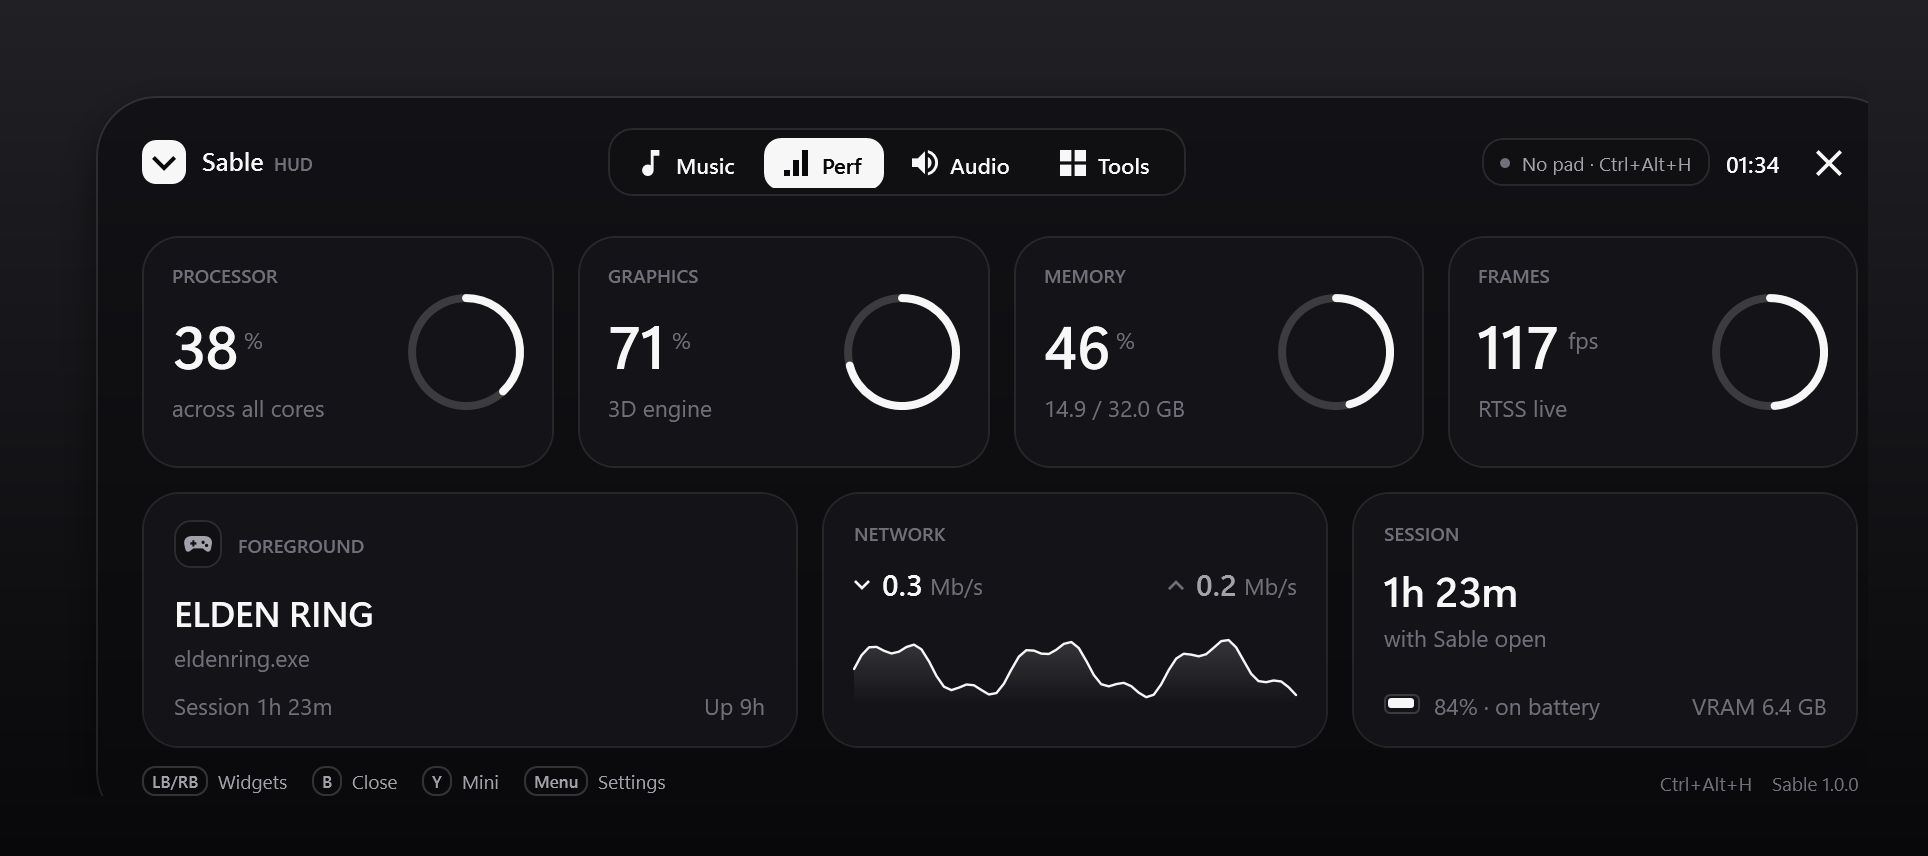
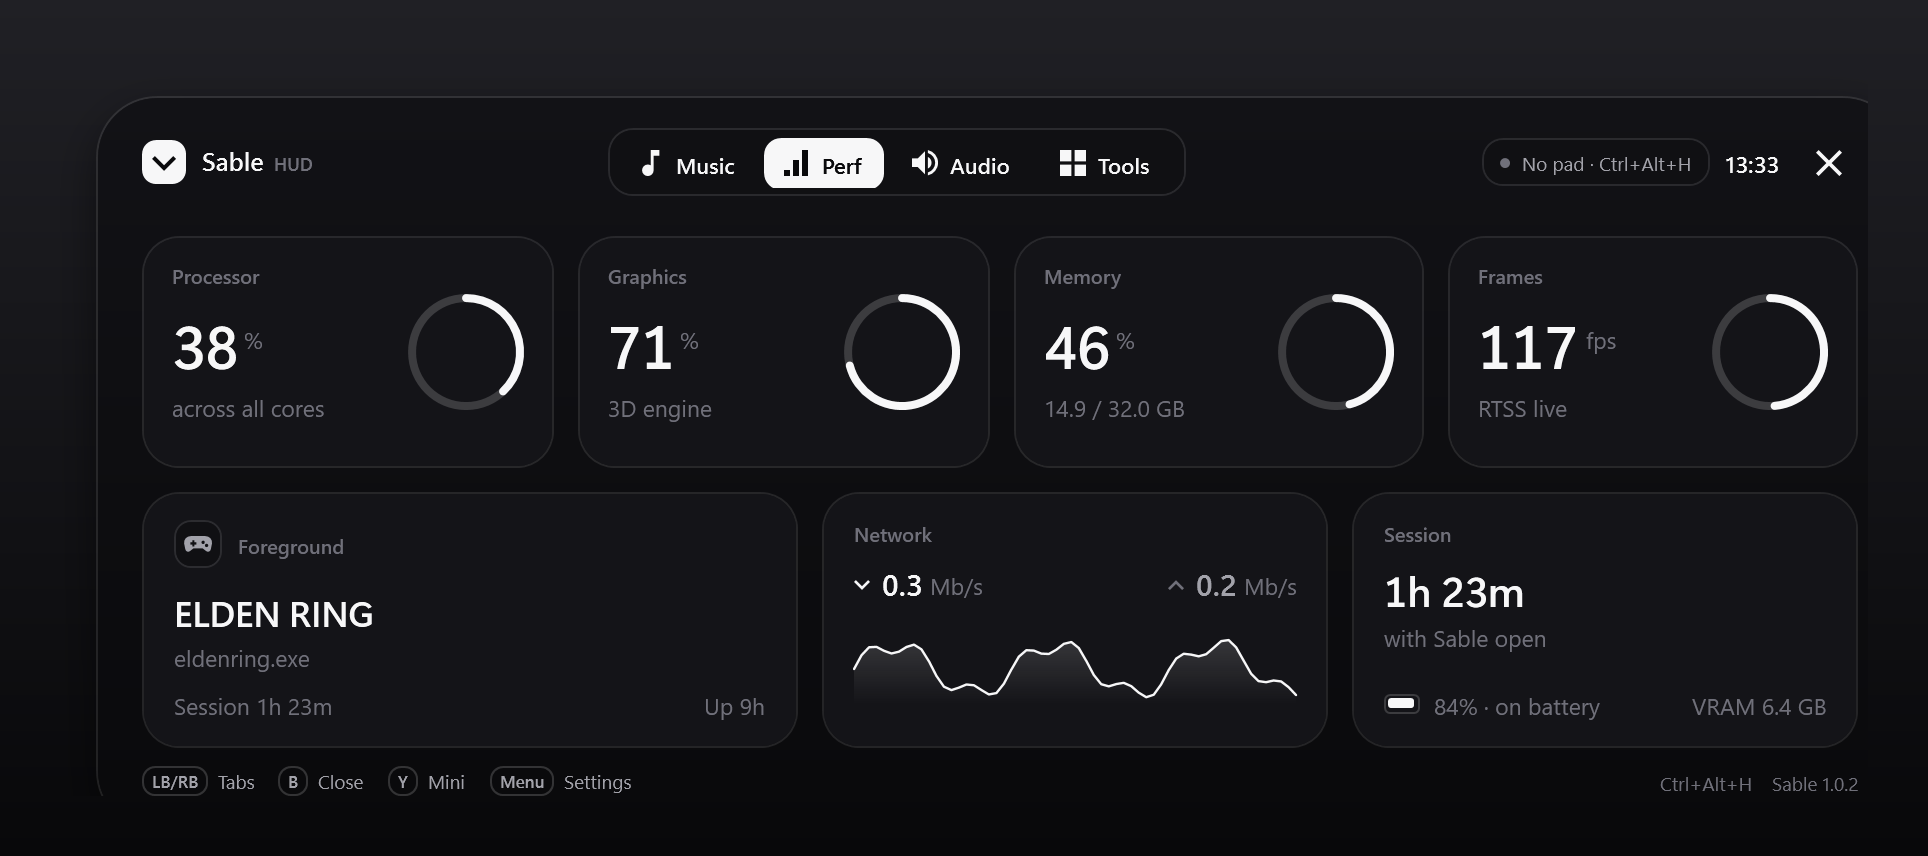
Polish micro labels and clarify controller isolation

diff --git a/src/SableHUD/Widgets/PerformanceView.xaml b/src/SableHUD/Widgets/PerformanceView.xaml
@@ -29,7 +29,7 @@
             <Border Style="{StaticResource Card}" Padding="14,12">
                 <Grid>
                     <StackPanel>
-                        <TextBlock Text="PROCESSOR" Style="{StaticResource Micro}" />
+                        <TextBlock Text="Processor" Style="{StaticResource Micro}" />
                         <StackPanel Orientation="Horizontal" Margin="0,8,0,0">
                             <TextBlock x:Name="CpuValue" Style="{StaticResource StatValue}" FontSize="30" Text="—" />
                             <TextBlock Text="%" Style="{StaticResource Dim}" Margin="3,10,0,0" />
@@ -46,7 +46,7 @@
             <Border Grid.Column="2" Style="{StaticResource Card}" Padding="14,12">
                 <Grid>
                     <StackPanel>
-                        <TextBlock Text="GRAPHICS" Style="{StaticResource Micro}" />
+                        <TextBlock Text="Graphics" Style="{StaticResource Micro}" />
                         <StackPanel Orientation="Horizontal" Margin="0,8,0,0">
                             <TextBlock x:Name="GpuValue" Style="{StaticResource StatValue}" FontSize="30" Text="—" />
                             <TextBlock Text="%" Style="{StaticResource Dim}" Margin="3,10,0,0" />
@@ -63,7 +63,7 @@
             <Border Grid.Column="4" Style="{StaticResource Card}" Padding="14,12">
                 <Grid>
                     <StackPanel>
-                        <TextBlock Text="MEMORY" Style="{StaticResource Micro}" />
+                        <TextBlock Text="Memory" Style="{StaticResource Micro}" />
                         <StackPanel Orientation="Horizontal" Margin="0,8,0,0">
                             <TextBlock x:Name="RamValue" Style="{StaticResource StatValue}" FontSize="30" Text="—" />
                             <TextBlock Text="%" Style="{StaticResource Dim}" Margin="3,10,0,0" />
@@ -80,7 +80,7 @@
             <Border Grid.Column="6" Style="{StaticResource Card}" Padding="14,12">
                 <Grid>
                     <StackPanel>
-                        <TextBlock Text="FRAMES" Style="{StaticResource Micro}" />
+                        <TextBlock Text="Frames" Style="{StaticResource Micro}" />
                         <StackPanel Orientation="Horizontal" Margin="0,8,0,0">
                             <TextBlock x:Name="FpsValue" Style="{StaticResource StatValue}" FontSize="30" Text="—" />
                             <TextBlock Text="fps" Style="{StaticResource Dim}" Margin="4,10,0,0" />
@@ -116,7 +116,7 @@
                         <Border Width="24" Height="24" CornerRadius="8" Background="{DynamicResource BgSoft}" BorderBrush="{DynamicResource Stroke}" BorderThickness="1">
                             <Path Data="{StaticResource IconGamepad}" Fill="{DynamicResource TextMuted}" Width="14" Height="14" Stretch="Uniform" HorizontalAlignment="Center" VerticalAlignment="Center" />
                         </Border>
-                        <TextBlock Text="FOREGROUND" Style="{StaticResource Micro}" Margin="8,0,0,0" VerticalAlignment="Center" />
+                        <TextBlock Text="Foreground" Style="{StaticResource Micro}" Margin="8,0,0,0" VerticalAlignment="Center" />
                     </StackPanel>
 
                     <StackPanel Grid.Row="1" VerticalAlignment="Center">
@@ -138,7 +138,7 @@
                         <RowDefinition Height="Auto" />
                         <RowDefinition Height="*" />
                     </Grid.RowDefinitions>
-                    <TextBlock Text="NETWORK" Style="{StaticResource Micro}" />
+                    <TextBlock Text="Network" Style="{StaticResource Micro}" />
                     <Grid Grid.Row="1" Margin="0,9,0,0">
                         <StackPanel Orientation="Horizontal">
                             <Path Data="{StaticResource IconChevronDown}" Fill="{DynamicResource Text}" Width="8" Height="8" Stretch="Uniform" VerticalAlignment="Center" />
@@ -169,7 +169,7 @@
                         <RowDefinition Height="Auto" />
                         <RowDefinition Height="*" />
                     </Grid.RowDefinitions>
-                    <TextBlock Text="SESSION" Style="{StaticResource Micro}" />
+                    <TextBlock Text="Session" Style="{StaticResource Micro}" />
                     <StackPanel Grid.Row="1" Margin="0,8,0,0">
                         <TextBlock x:Name="BigSession" Style="{StaticResource StatValue}" FontSize="21" Text="0m" />
                         <TextBlock Text="with Sable open" Style="{StaticResource Dim}" Margin="0,2,0,0" />

diff --git a/src/SableHUD/Widgets/AudioView.xaml b/src/SableHUD/Widgets/AudioView.xaml
@@ -27,7 +27,7 @@
                 </Grid.ColumnDefinitions>
 
                 <StackPanel VerticalAlignment="Center">
-                    <TextBlock Text="SYSTEM VOLUME" Style="{StaticResource Micro}" />
+                    <TextBlock Text="System volume" Style="{StaticResource Micro}" />
                     <StackPanel Orientation="Horizontal" Margin="0,4,0,0">
                         <TextBlock x:Name="MasterValue" Style="{StaticResource StatValue}" FontSize="26" Text="—" />
                         <TextBlock Text="%" Style="{StaticResource Dim}" Margin="3,9,0,0" />
@@ -39,7 +39,7 @@
                     <controls:HudProgress x:Name="MasterBar" Height="6"
                                           Track="{DynamicResource StrokeStrong}"
                                           Fill="{DynamicResource Text}" />
-                    <TextBlock x:Name="MasterHint" Text="click to mute · ◀ ▶ volume" Style="{StaticResource Dim}" Margin="0,7,0,0" FontSize="9.8" TextTrimming="CharacterEllipsis" />
+                    <TextBlock x:Name="MasterHint" Text="Click to mute · ◀ ▶ volume" Style="{StaticResource Dim}" Margin="0,7,0,0" FontSize="9.8" TextTrimming="CharacterEllipsis" />
                 </StackPanel>
 
                 <Path x:Name="MasterIcon" Grid.Column="2"
@@ -51,7 +51,7 @@
         </controls:HudButton>
 
         <Grid Grid.Row="2">
-            <TextBlock Text="APP MIXER" Style="{StaticResource Micro}" VerticalAlignment="Center" />
+            <TextBlock Text="App mixer" Style="{StaticResource Micro}" VerticalAlignment="Center" />
             <StackPanel Orientation="Horizontal" HorizontalAlignment="Right">
                 <controls:HudButton x:Name="OutputButton"
                                     Height="34" CornerRadius="11" Padding="11,0" Margin="0,0,6,0"
@@ -73,7 +73,7 @@
                 <StackPanel x:Name="SessionRows" />
                 <TextBlock x:Name="NoSessions"
                            Style="{StaticResource Body}"
-                           Text="No apps are playing audio right now."
+                           Text="No apps are playing audio"
                            VerticalAlignment="Center"
                            HorizontalAlignment="Center"
                            FontSize="12" />

diff --git a/src/SableHUD/Widgets/MusicView.xaml b/src/SableHUD/Widgets/MusicView.xaml
@@ -65,7 +65,7 @@
                             VerticalAlignment="Center">
                         <StackPanel Orientation="Horizontal" VerticalAlignment="Center">
                             <Ellipse x:Name="SourceDot" Width="5" Height="5" Fill="{DynamicResource Text}" VerticalAlignment="Center" />
-                            <TextBlock x:Name="SourceText" Style="{StaticResource Micro}" Margin="7,1,0,0" Text="MEDIA" />
+                            <TextBlock x:Name="SourceText" Style="{StaticResource Micro}" Margin="7,1,0,0" Text="Media" />
                         </StackPanel>
                     </Border>
                     <TextBlock x:Name="StateText" Style="{StaticResource Dim}" Margin="10,0,0,0" VerticalAlignment="Center" Text="Idle" />
@@ -130,11 +130,11 @@
                         <RowDefinition Height="Auto" />
                     </Grid.RowDefinitions>
 
-                    <TextBlock Text="SOURCE" Style="{StaticResource Micro}" />
+                    <TextBlock Text="Source" Style="{StaticResource Micro}" />
                     <TextBlock x:Name="SideSource" Grid.Row="1" Style="{StaticResource Heading}" FontSize="17" Margin="0,5,0,0" Text="—" />
                     <Border Grid.Row="2" Style="{StaticResource Divider}" Margin="0,12,0,0" />
                     <StackPanel Grid.Row="3" Margin="0,12,0,0">
-                        <TextBlock x:Name="SideLabel" Text="NEXT UP" Style="{StaticResource Micro}" />
+                        <TextBlock x:Name="SideLabel" Text="Next up" Style="{StaticResource Micro}" />
                         <TextBlock x:Name="SideDetail" Style="{StaticResource Body}" FontSize="12" Margin="0,5,0,0" Text="Start a track to see more." TextWrapping="Wrap" />
                     </StackPanel>
 

diff --git a/src/SableHUD/Windows/ToastWindow.xaml b/src/SableHUD/Windows/ToastWindow.xaml
@@ -54,8 +54,8 @@
 
                 <StackPanel Grid.Column="2" VerticalAlignment="Center">
                     <StackPanel Orientation="Horizontal">
-                        <TextBlock x:Name="ToastLabel" Text="NOW PLAYING" Style="{StaticResource Micro}" FontSize="8.5" VerticalAlignment="Center" />
-                        <TextBlock x:Name="ToastSource" Text="LIMUSIC" Style="{StaticResource Micro}" FontSize="8.5" Foreground="{DynamicResource TextMuted}" Margin="7,0,0,0" VerticalAlignment="Center" />
+                        <TextBlock x:Name="ToastLabel" Text="Now playing" Style="{StaticResource Micro}" FontSize="8.5" VerticalAlignment="Center" />
+                        <TextBlock x:Name="ToastSource" Text="LiMusic" Style="{StaticResource Micro}" FontSize="8.5" Foreground="{DynamicResource TextMuted}" Margin="7,0,0,0" VerticalAlignment="Center" />
                     </StackPanel>
                     <TextBlock x:Name="ToastTitle" Text="Track" FontSize="12.5" FontWeight="SemiBold" Margin="0,3,0,0" TextTrimming="CharacterEllipsis" />
                     <TextBlock x:Name="ToastArtist" Text="Artist" FontSize="9.8" Foreground="{DynamicResource TextDim}" Margin="0,1,0,0" TextTrimming="CharacterEllipsis" />

diff --git a/src/SableHUD/Themes/Base.xaml b/src/SableHUD/Themes/Base.xaml
@@ -73,8 +73,8 @@
     </Style>
 
     <Style x:Key="Micro" TargetType="TextBlock">
-        <Setter Property="FontSize" Value="9.5" />
-        <Setter Property="FontWeight" Value="SemiBold" />
+        <Setter Property="FontSize" Value="10" />
+        <Setter Property="FontWeight" Value="Medium" />
         <Setter Property="Foreground" Value="{DynamicResource TextDim}" />
         <Setter Property="TextOptions.TextFormattingMode" Value="Ideal" />
     </Style>
@@ -84,6 +84,7 @@
         <Setter Property="FontSize" Value="22" />
         <Setter Property="FontWeight" Value="SemiBold" />
         <Setter Property="Foreground" Value="{DynamicResource Text}" />
+        <Setter Property="Typography.NumeralAlignment" Value="Tabular" />
     </Style>
 
     <!-- ============================ surfaces ============================ -->

diff --git a/src/SableHUD/Windows/SettingsWindow.xaml.cs b/src/SableHUD/Windows/SettingsWindow.xaml.cs
@@ -459,7 +459,7 @@ public partial class SettingsWindow : Window
             });
 
         AddRow("Isolate pad while HUD is open",
-            "Uses HidHide to hide the controller from games while the overlay is up, so HUD navigation does not leak into gameplay. Sable is allowlisted.",
+            "Hides the controller from games while the overlay is up. Apps opened after the HUD is up are isolated; an app that already opened the controller keeps it until it restarts or reloads. Sable is allowlisted.",
             Services.Settings.IsolateController ? "On" : "Off",
             () => _ = ToggleIsolationAsync(),
             toggle: Services.Settings.IsolateController);
@@ -492,7 +492,7 @@ public partial class SettingsWindow : Window
 
             Services.Settings.IsolateController = true;
             Services.Save();
-            Hud.Toast(message);
+            Hud.Toast(message + " · Reload apps that were already open");
         }
         else
         {
@@ -670,7 +670,7 @@ public partial class SettingsWindow : Window
             "Music is built around LiMusic. LiMusic publishes its now-playing state to Windows (SMTC), so Sable can show artwork, seek, and play or skip without embedding the whole Tauri app. The music widget is a stripped-down, controller-sized take on that player; LiMusic itself still owns search, library and streaming.",
             "You can also point Sable at a folder of your own music. MP3, FLAC, M4A and WAV are read through Media Foundation and tagged with TagLib.",
             "FPS comes from RivaTuner Statistics Server's shared memory when RTSS is running. Sable never injects into a game.",
-            "Windows broadcasts controller input to every app. While the HUD is open, the game may still see D-pad and face-button presses. Borderless fullscreen keeps the overlay visible; a HidHide profile can isolate the pad if a particular game reacts.",
+            "Windows broadcasts controller input to every app. HidHide can hide the pad while the HUD is open, but an app that already opened the controller keeps it until it restarts or reloads. Borderless fullscreen keeps the overlay visible.",
         };
 
         foreach (var text in paragraphs)

diff --git a/src/SableHUD/Widgets/MusicView.xaml.cs b/src/SableHUD/Widgets/MusicView.xaml.cs
@@ -164,7 +164,7 @@ public partial class MusicView : HudPageBase
         var snap = Services.Demo ? Services.DemoMedia ?? MediaSnapshot.Empty : Services.Media.Current;
         var has = snap.HasTrack;
 
-        SourceText.Text = (snap.Kind == MediaKind.None ? "MEDIA" : snap.Source).ToUpperInvariant();
+        SourceText.Text = (snap.Kind == MediaKind.None ? "Media" : snap.Source);
         SourceDot.Opacity = snap.IsPlaying ? 1 : 0.3;
         StateText.Text = snap.Kind == MediaKind.None ? "Idle" : snap.IsPlaying ? "Playing" : "Paused";
 
@@ -191,21 +191,21 @@ public partial class MusicView : HudPageBase
         SideSource.Text = snap.Kind == MediaKind.None ? "Nothing yet" : snap.Source;
         if (snap.Kind == MediaKind.Local)
         {
-            SideLabel.Text = "NEXT UP";
+            SideLabel.Text = "Next up";
             var lib = Services.Media.Local.Library;
             var next = lib.Count > 1 ? lib[(Services.Media.Local.CurrentIndex + 1) % lib.Count] : null;
             SideDetail.Text = next is null ? "The library is quiet." : $"{next.Title}\n{next.Artist}";
         }
         else if (snap.Kind == MediaKind.System)
         {
-            SideLabel.Text = "ALBUM";
+            SideLabel.Text = "Album";
             SideDetail.Text = string.IsNullOrWhiteSpace(snap.Album)
                 ? $"{snap.Source} is playing outside the overlay."
                 : snap.Album;
         }
         else
         {
-            SideLabel.Text = "GET STARTED";
+            SideLabel.Text = "Get started";
             SideDetail.Text = "Play something in LiMusic, or point the HUD at a folder of your own music.";
         }
 

diff --git a/src/SableHUD/App.xaml.cs b/src/SableHUD/App.xaml.cs
@@ -21,6 +21,7 @@ public partial class App : Application
     private volatile bool _listening;
 
     private readonly System.Threading.SemaphoreSlim _isolationGate = new(1, 1);
+    private bool _isolationHintShown;
     private OverlayWindow? _overlay;
     private MiniPlayerWindow? _mini;
     private ToastWindow? _toast;
@@ -404,7 +405,14 @@ public partial class App : Application
             }
 
             if (_overlay?.IsShown == true)
+            {
                 await HidHide.SetCloakAsync(true).ConfigureAwait(true);
+                if (!_isolationHintShown)
+                {
+                    _isolationHintShown = true;
+                    Hud.Toast("Pad hidden · reload apps that were already open");
+                }
+            }
         }
         catch (Exception ex)
         {

diff --git a/src/SableHUD/Windows/ToastWindow.xaml.cs b/src/SableHUD/Windows/ToastWindow.xaml.cs
@@ -29,8 +29,8 @@ public partial class ToastWindow : Window
     {
         if (!snap.HasTrack) return;
 
-        ToastLabel.Text = "NOW PLAYING";
-        ToastSource.Text = snap.Source.ToUpperInvariant();
+        ToastLabel.Text = "Now playing";
+        ToastSource.Text = snap.Source;
         ToastTitle.Text = snap.Title;
         ToastArtist.Text = string.IsNullOrWhiteSpace(snap.Artist) ? snap.Album : snap.Artist;
         ToastProgress.Value = snap.Progress;
@@ -42,7 +42,7 @@ public partial class ToastWindow : Window
 
     public void ShowMessage(string text)
     {
-        ToastLabel.Text = "SABLE";
+        ToastLabel.Text = "Sable";
         ToastSource.Text = "";
         ToastTitle.Text = text;
         ToastArtist.Text = "";

diff --git a/src/SableHUD/Widgets/AudioView.xaml.cs b/src/SableHUD/Widgets/AudioView.xaml.cs
@@ -111,7 +111,7 @@ public partial class AudioView : HudPageBase
         MasterValue.Text = $"{s.Master * 100:0}";
         MasterBar.Value = s.Master;
         MasterState.Text = s.MasterMuted ? "muted" : "live";
-        MasterHint.Text = "click to mute · ◀ ▶ volume · " + s.DefaultDeviceName;
+        MasterHint.Text = "Click to mute · ◀ ▶ volume · " + s.DefaultDeviceName;
         MasterHint.ToolTip = s.DefaultDeviceName;
         MasterIcon.Data = Ui.Geo(s.MasterMuted ? "IconVolumeMute" : "IconVolume");
         MicButton.Content = s.MicAvailable ? (s.MicMuted ? "Mic muted" : "Mic live") : "No mic";

diff --git a/docs/TECHNICAL.md b/docs/TECHNICAL.md
@@ -166,14 +166,25 @@ Logs: `%APPDATA%\SableHUD\sable.log`. Settings are never written to the program 
 the installer and, after a reboot, prepare the configuration:
 
 1. `HidHideCLI --app-reg <SableHUD.exe>` allowlists the HUD
-2. `--dev-gaming` returns gaming HID devices; their `deviceInstancePath` and
-   `xusbDeviceInstancePath` are added with `--dev-hide`
-3. `--inv-off` and `--cloak-off`
+2. `--dev-gaming` returns gaming HID groups; the present `gamingDevice` entries are
+   collected from each group's `devices` array with `--dev-hide`
+3. HID gamepads also expose an XUSB (XnaComposite) interface that `--dev-gaming`
+   does not list. Sable finds it in
+   `HKLM\SYSTEM\CurrentControlSet\Enum\USB` by vendor/product and `Service=xusb*`,
+   and hides that instance too, otherwise XInput games still see the pad
+4. `--inv-off` and `--cloak-off`
 
-When the HUD is shown, `--cloak-on` hides those devices from every process except
-Sable; when it hides, `--cloak-off` restores them. Startup and normal exit always
-uncloak. A crash can leave cloaking on until Sable is run again or
-`HidHideCLI --cloak-off` is called.
+The device list is rebuilt every time the HUD opens, so a pad connected after the
+setting was enabled is picked up. When the HUD is shown, `--cloak-on` hides those
+devices from every process except Sable; when it hides, `--cloak-off` restores them.
+Startup and normal exit always uncloak. A crash can leave cloaking on until Sable is
+run again or `HidHideCLI --cloak-off` is called.
+
+HidHide filters **new device opens**, not handles that already exist. An app or
+browser page that opened the controller before the HUD keeps receiving input until
+it restarts or reloads; apps that open the pad after the HUD is up are isolated.
+This is why a game should be launched with the HUD already open, and why reloading a
+browser gamepad tester is enough to see the pad disappear.
 
 ## Animations
 

diff --git a/README.md b/README.md
@@ -84,7 +84,9 @@ Screenshot without the HUD in it, microphone mute, the Windows sound mixer, the 
 
 ### Optional pad isolation
 
-Windows sends controller input to every app. If a game reacts while the HUD is open, install the bundled **HidHide** driver from **Settings → General** and turn on **Isolate pad while HUD is open**. Sable hides the pad from the game only while the HUD is visible. Nothing installs or cloaks unless you choose it, and a reboot always releases the controller.
+Windows sends controller input to every app. If a game reacts while the HUD is open, install the bundled **HidHide** driver from **Settings → General** and turn on **Isolate pad while HUD is open**. Sable hides both the HID gamepad and its XUSB interface only while the HUD is visible. Nothing installs or cloaks unless you choose it, and a reboot always releases the controller.
+
+HidHide filters new device opens, so isolation applies to apps that open the controller **after** the HUD is up. An app or browser page that already opened the controller keeps it until it restarts or reloads; reloading the page is enough for a browser tester. The HUD re-reads the controller devices every time it opens, so a pad connected later is picked up.
 
 ## Controls
 
